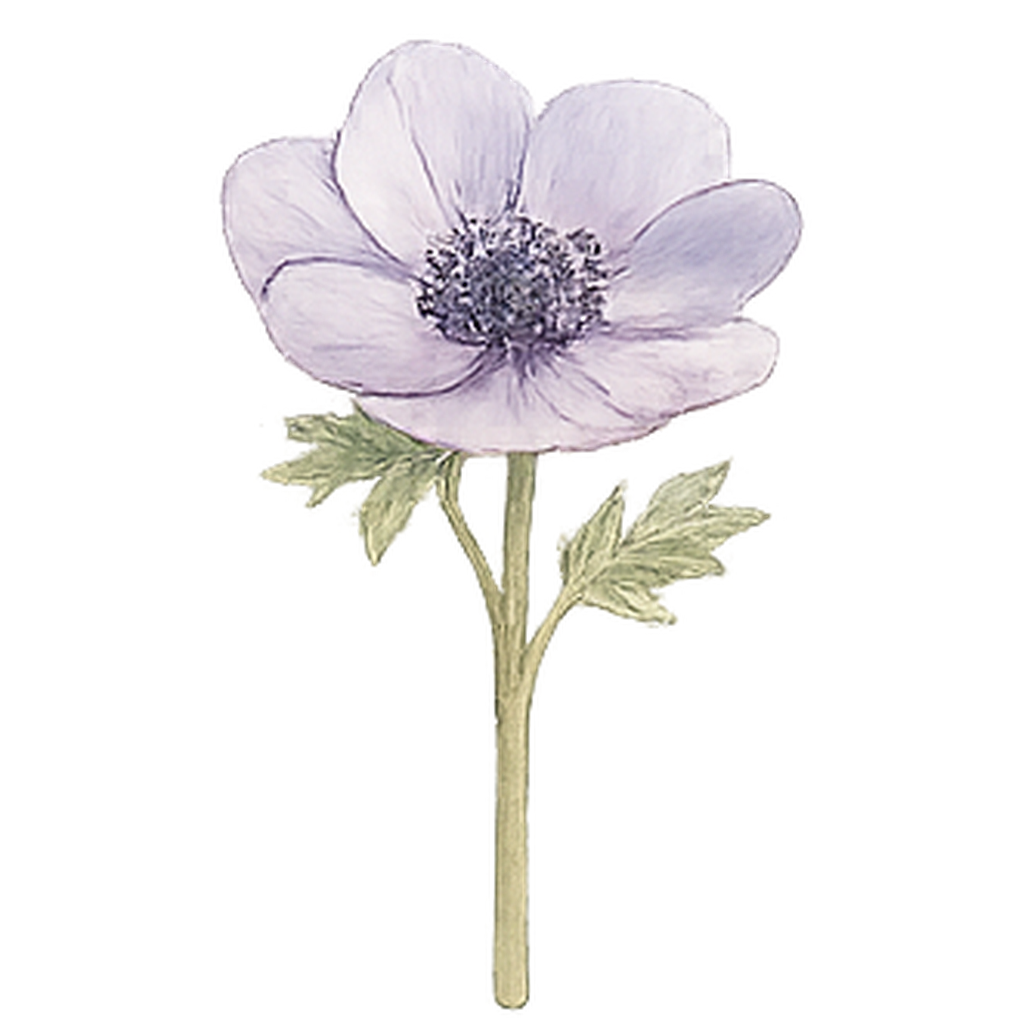
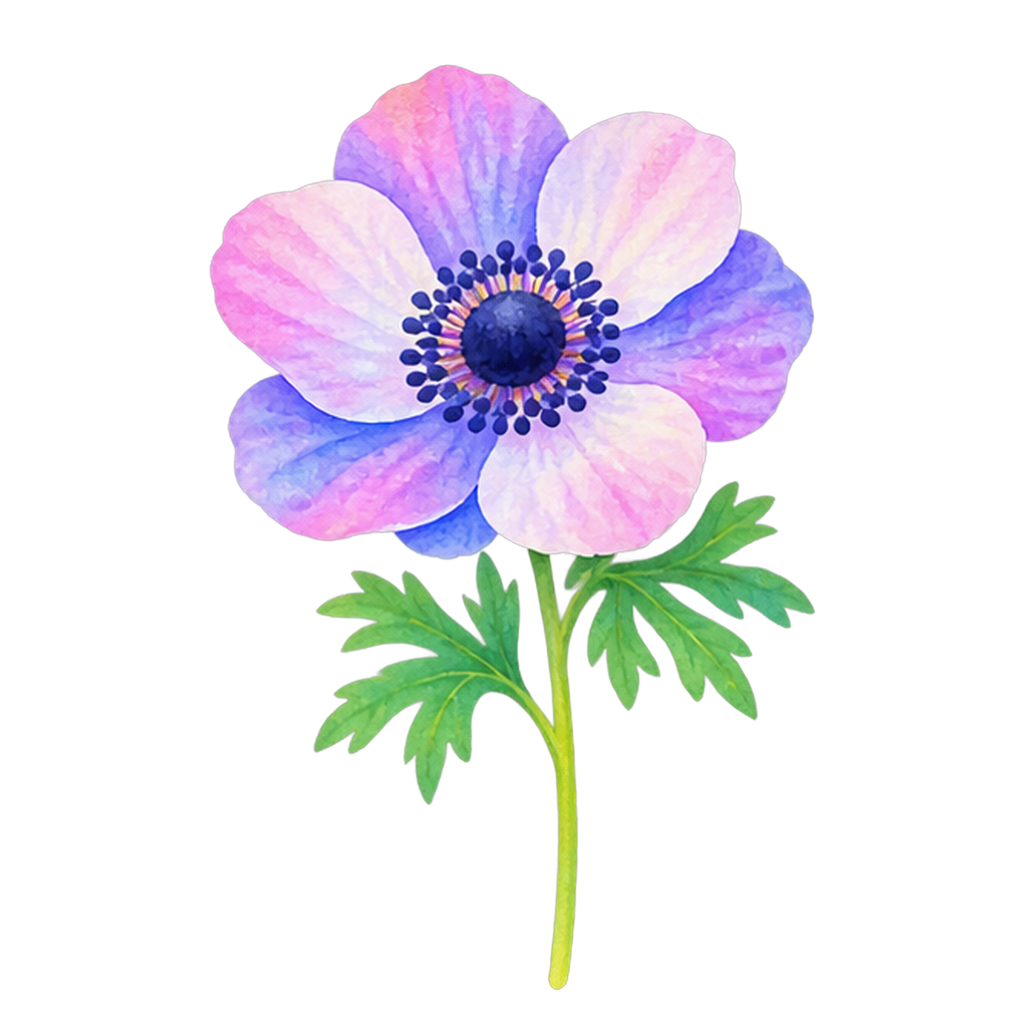
feat: チューリップ・アジサイ・ラナンキュラス・アネモネ・スターチスを新画風へ差し替え
「北欧絵本×水彩×少しポップ」基準の第一弾5種。バラ・ムスカリ・
ユーカリと合わせて計8種が新画風になった。

抽出は3x2グリッドで並んだ1枚の画像から。単純な矩形クロップだと
隣の花のバウンディングボックスが重なる箇所で花びらが混入したため、
連結成分ラベリングで花ごとにアルファチャンネルを分離してから
切り出す方式にした（隙間なく並んでいたので、単純な行/列の空白
検出では5つの領域を正しく分けられなかった）。

flowerBounds.ts のbounding box・presence値も全て測り直した。

実機確認: 8種のうちラナンキュラス・アネモネは当日の棚に出ないこと
があったため、ゲーム内のlocalStorage保存形式（day等）を直接書き
込んで任意の日から始める形でテストした。タップした花と詳細表示の
一致、市場・店頭・詳細画面・花束（丸くやわらかい／高さを出して
すっきり／自然に広がるの3スタイル）での表示を確認済み。

Changed region(s): [[0.1875, 0.0312, 0.8125, 1.0]]

diff --git a/src/data/flowerBounds.ts b/src/data/flowerBounds.ts
@@ -46,7 +46,7 @@ export interface FlowerBounds {
 
 export const FLOWER_BOUNDS: Record<string, FlowerBounds> = {
   alstroemeria: { top: 0.1562, bottom: 1.0, left: 0.2539, right: 0.7422, presence: 0.97 },
-  anemone: { top: 0.0293, bottom: 0.9941, left: 0.207, right: 0.793, presence: 0.91 },
+  anemone: { top: 0.0615, bottom: 0.9678, left: 0.2031, right: 0.7969, presence: 0.91 },
   carnation: { top: 0.1436, bottom: 1.0, left: 0.252, right: 0.7891, presence: 0.94 },
   celosia: { top: 0.1963, bottom: 1.0, left: 0.3721, right: 0.6533, presence: 1.18 },
   cosmos: { top: 0.1309, bottom: 1.0, left: 0.2275, right: 0.6777, presence: 1.0 },
@@ -57,7 +57,7 @@ export const FLOWER_BOUNDS: Record<string, FlowerBounds> = {
   gentian: { top: 0.208, bottom: 1.0, left: 0.3506, right: 0.6338, presence: 1.18 },
   gerbera: { top: 0.0713, bottom: 1.0, left: 0.2529, right: 0.7363, presence: 0.98 },
   gypsophila: { top: 0.1406, bottom: 1.0, left: 0.2051, right: 0.7852, presence: 0.92 },
-  hydrangea: { top: 0.0312, bottom: 0.998, left: 0.1201, right: 0.8828, presence: 0.9 },
+  hydrangea: { top: 0.0625, bottom: 0.9658, left: 0.1602, right: 0.8398, presence: 0.9 },
   lily: { top: 0.0977, bottom: 1.0, left: 0.1836, right: 0.7363, presence: 0.93 },
   lisianthus: { top: 0.1094, bottom: 1.0, left: 0.2617, right: 0.7656, presence: 0.96 },
   marguerite: { top: 0.125, bottom: 1.0, left: 0.2432, right: 0.7686, presence: 0.95 },
@@ -65,14 +65,14 @@ export const FLOWER_BOUNDS: Record<string, FlowerBounds> = {
   narcissus: { top: 0.1426, bottom: 1.0, left: 0.2734, right: 0.6631, presence: 1.05 },
   poinsettia: { top: 0.0996, bottom: 1.0, left: 0.292, right: 0.7246, presence: 1.01 },
   pompon: { top: 0.1797, bottom: 1.0, left: 0.3428, right: 0.6514, presence: 1.14 },
-  ranunculus: { top: 0.0322, bottom: 0.998, left: 0.2783, right: 0.7207, presence: 1.01 },
+  ranunculus: { top: 0.0625, bottom: 0.9658, left: 0.2402, right: 0.7588, presence: 0.95 },
   rose: { top: 0.0449, bottom: 0.9834, left: 0.2373, right: 0.7637, presence: 0.95 },
   ruscus: { top: 0.1709, bottom: 1.0, left: 0.3848, right: 0.6143, presence: 1.25 },
   solidago: { top: 0.124, bottom: 1.0, left: 0.2402, right: 0.7764, presence: 0.94 },
-  statice: { top: 0.0371, bottom: 0.999, left: 0.2324, right: 0.791, presence: 0.93 },
+  statice: { top: 0.0625, bottom: 0.9678, left: 0.1699, right: 0.8301, presence: 0.9 },
   sunflower: { top: 0.0244, bottom: 1.0, left: 0.2051, right: 0.7822, presence: 0.92 },
   sweetpea: { top: 0.1572, bottom: 1.0, left: 0.2861, right: 0.7109, presence: 1.02 },
-  tulip: { top: 0.0273, bottom: 0.998, left: 0.3252, right: 0.6748, presence: 1.09 },
+  tulip: { top: 0.0566, bottom: 0.9668, left: 0.2559, right: 0.7441, presence: 0.97 },
   zinnia: { top: 0.1553, bottom: 1.0, left: 0.333, right: 0.666, presence: 1.11 },
 };
 
